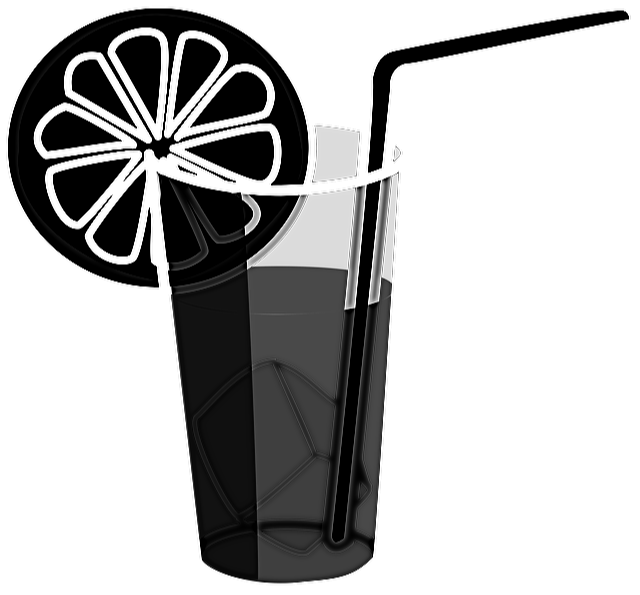
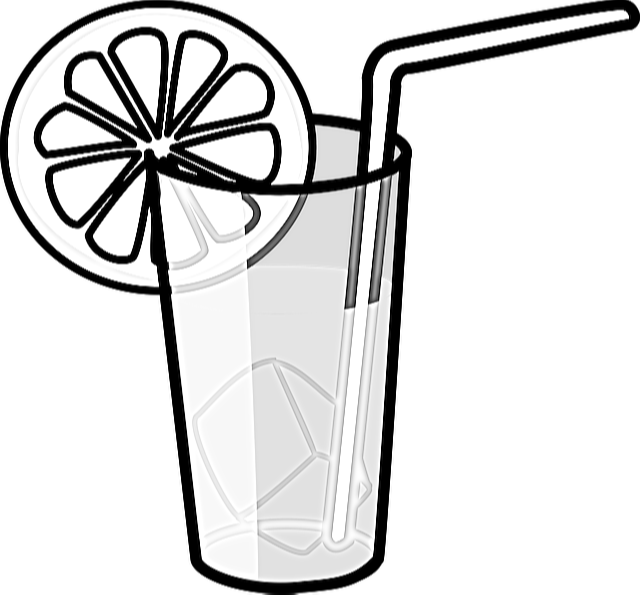
Implement white theme for homepage of recipe

diff --git a/odin-recipes/styles.css b/odin-recipes/styles.css
@@ -9,50 +9,50 @@
 :root{
     --bookmark-font-size:30px;
     --bookmark-height:60px;
+    --bookmark-bgcolor : black;
 
 }
 body{
-    color: white;
+    color: black;
+    /* background: #a1a1a1; */
+
     /* background-image: url(https://thumbs.dreamstime.com/b/abstract-rustic-surface-white-wood-table-texture-background-clo-abstract-rustic-surface-white-wood-table-texture-background-close-101913567.jpg); */
     /* background-image: url(https://images.unsplash.com/photo-1495195129352-aeb325a55b65?ixlib=rb-1.2.1&ixid=MnwxMjA3fDB8MHxzZWFyY2h8MXx8d2hpdGUlMjBjdXR0aW5nJTIwYm9hcmQlMjB3aXRoJTIwZm9vZHxlbnwwfHwwfHw%3D&auto=format&fit=crop&w=500&q=60); */
     /* background-color: rgb(80, 81, 81); */
     /* background-position: cover; */
-    background-size: cover;
+    /* background-size: cover; */
 }
 .card{
-    box-shadow: 0 10px 50px #000000;
     display: flex;
     flex-direction: row;
+
     width: 60vw;
     height: auto;
     margin: auto;
     margin-top: 30px;
     margin-bottom: 30px;
-    display: flex;
     max-width: 1600px;
     /* border:10px dashed rgb(255, 236, 236); */
-    /* border:2px solid rgb(255, 162, 0); */
     gap:1em;
-    background-color: rgb(0, 0, 0);
-    border-radius: 30px;
-    /* border: 10px solid rgb(141, 141, 141); */
     padding: 30px;
+
+    border-radius: 30px;
+    background: linear-gradient(145deg, #e6e6e6, #ffffff);
+    box-shadow:  7px 7px 14px #c2c2c2,
+                 -7px -7px 14px #ffffff;
+
 }
 .columns{ /*flex item of .card. flex-box of */
     background-color: inherit;
     width: auto;
     display: flex;
     flex-direction: column;
-    /* width: 50%; */
-    border-radius: 1%;
     /* border: 5px solid orange; */
     gap: 1em;
-    /* margin-left: 30px; */
 }
 a{
     text-decoration: none;
     background-color: inherit;
-    /* font-size: 50px; */
     font-weight: bold;
     font-family: "vietnam";
 
@@ -60,28 +60,19 @@ a{
 .title{
     word-break: break-all;
     background-color: inherit;
-    /* font-size: 200px; */
     font-size: clamp( 30px,6vw, 120px);  
     font-family: "abril";
     text-align: center;
     margin: 0;
-    /* background-color: blueviolet; */
-}
-.title:nth-child(2){
-    color: #ffc50c;
 }
 .main-image-container{
     background-color: inherit;
-    /* height: 50%; */
     flex: 1;
     align-items: center;
     justify-content: center;
-    /* margin-bottom: 0; */
     /* border:5px solid orange; */
-    /* border-radius: 10px; */
 }
 .main-image-container img{
-    filter: invert(100%);
     width: 100%;
 }
 .bookmark {
@@ -101,8 +92,8 @@ a{
     border: 0;
     padding: 8px;
     float:left;
-    color: black;
-    background-color: #ffc50c;
+    color: white;
+    background-color: var(--bookmark-bgcolor);
   
 }
 .bookmark-triangle{
@@ -110,23 +101,30 @@ a{
     float:left;
     height: 0;
     width: 0;
-    border-top: calc(var(--bookmark-height)/2) solid #ffc50c;
-    border-bottom: calc(var(--bookmark-height)/2) solid #ffc50c;
-    border-right: var(--bookmark-height) solid black;
+    border-top: calc(var(--bookmark-height)/2) solid var(--bookmark-bgcolor);
+    border-bottom: calc(var(--bookmark-height)/2) solid var(--bookmark-bgcolor);
+    border-right: var(--bookmark-height) solid transparent;
+    /* border-color: currentcolor; */
 }
 
 .dish-module{
     background-color: inherit;
     display: flex;
-    /* flex: 1; */
     /* border: 4px solid white; */
     margin-bottom: 5px;
+    padding:10px;
+}
+
+.dish-module:hover{
+    border-radius: 30px;
+    background: linear-gradient(145deg, #e6e6e6, #ffffff);
+    box-shadow:  7px 7px 14px #c2c2c2,
+                 -7px -7px 14px #ffffff;
 }
 .dish-text{
     word-break: break-all;
     background-color: inherit;
     width: 50%;
-    /* padding-left: 10px; */
     font-family: "vietnam";
     font-size: 23px;
     /* border: 4px solid blue; */
@@ -149,12 +147,12 @@ a{
     transition: 1s ease;
 }
 .dish-image-caption{
-    color: white;
+    color: black;
     background-color: inherit;
     transition: .5s ease;
     opacity: 0;
     text-align: center;
-    font-size: 30px;
+    font-size: 20px;
     font-weight: bold;
     font-family: "vietnam";
 }
@@ -165,7 +163,6 @@ a{
 
 .columns:nth-child(2) .dish-module:nth-child(5){
     flex-direction: column;
-    /* flex: 1; */
 }
 .columns:nth-child(2) .dish-module:nth-child(5) .dish-text{
     width: 100%;

diff --git a/odin-recipes/index.html b/odin-recipes/index.html
@@ -13,13 +13,14 @@
             <div class="title">Odin's</div>
             <div class="title">Recipes</div>
             <div class="main-image-container">
-                <!-- <img src="img/bruge.png" alt="cooking chef"> -->
-                <img src="https://freesvg.org/img/fast-food.png" alt="burger, hotdog and chips">
+                <img src="https://freesvg.org/img/fast-food-coloursplash.png" alt="burger, hotdog and chips">
             </div>
+            
             <div class="bookmark">
                 <div class="bookmark-text">MAIN DISHES</div>
                 <div class="bookmark-triangle"></div>
             </div>
+            
             <div class="dish-module">
                 <div class="dish-text">
                     Lorem ipsum dolor sit amet consectetur adipisicing elit. Ut esse voluptatem voluptatum necessitatibus dolore porro, est iste mollitia eum? 
